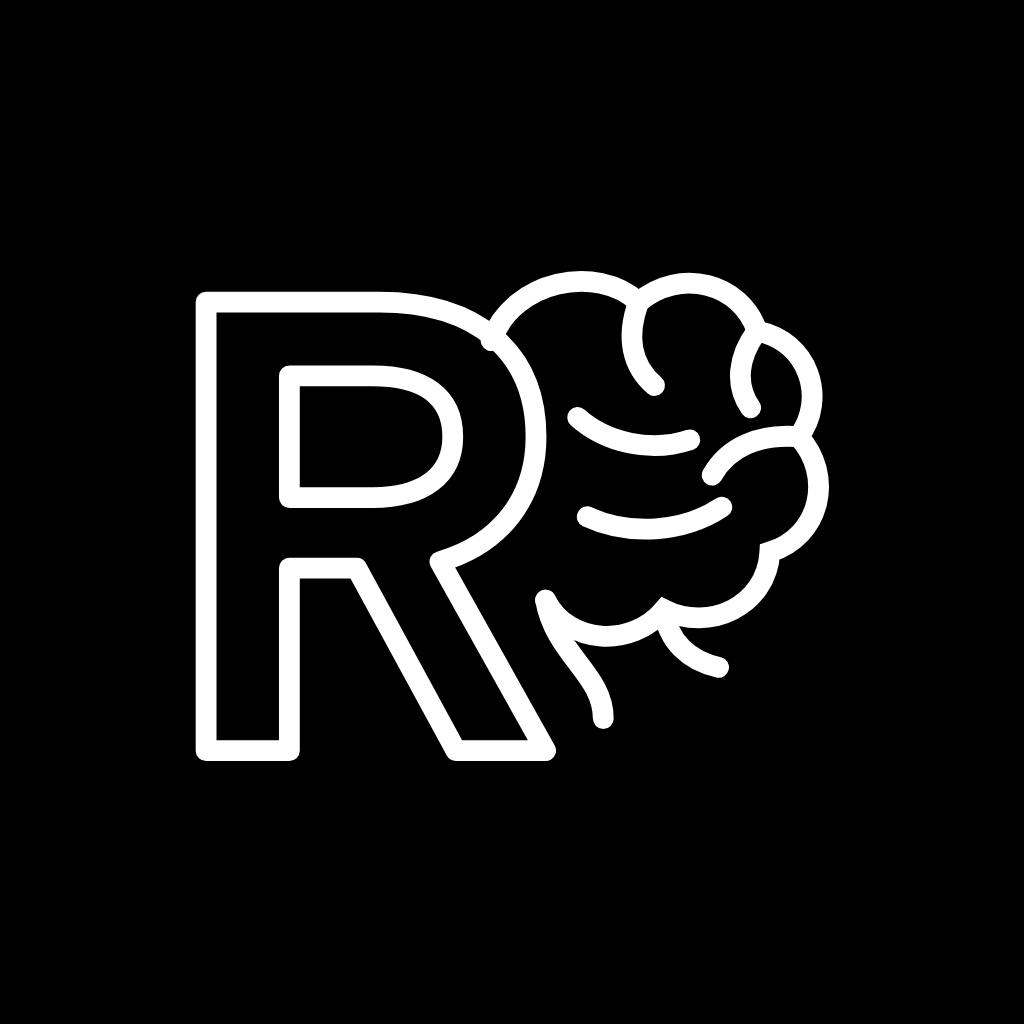
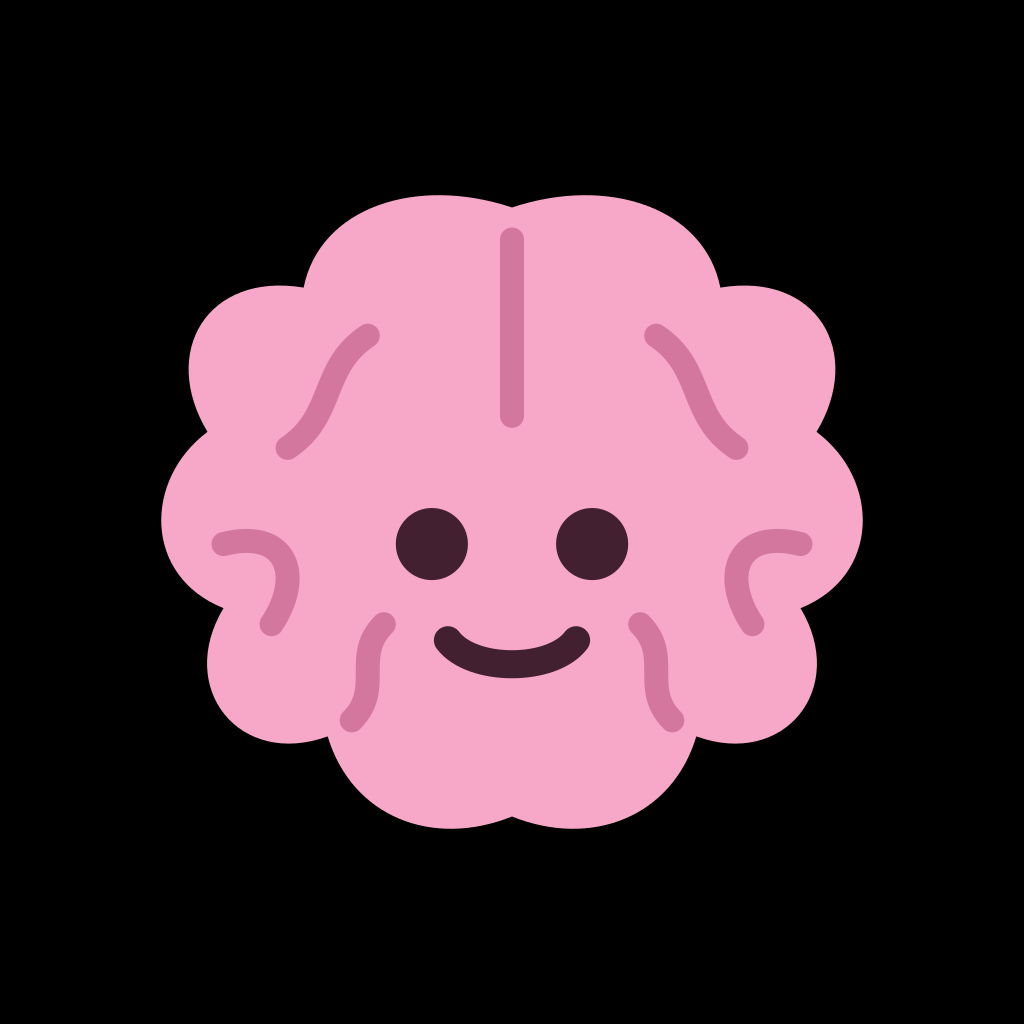
brand: make Rekalla himself the app mark, replacing the R
The old mark was an outlined "R" with an anatomical brain fused to it, in
white on black. Thin outline strokes turn to grey mush at 60pt on a home
screen, and it looked nothing like the app it opened.

He is the one thing carried over from the scan-era work: a pink cartoon
brain, drawn as one half mirrored onto the other, so the two sides cannot
drift apart. Stemless everywhere, so there is only ever one drawing of him.

components/ui/rekalla-avatar.tsx and mobile/components/rekalla-avatar.tsx
hold the geometry, and scripts/make-icons.mjs redraws every icon from those
same paths, so the mark on the home screen is literally the character. The
web header and the three mobile auth screens draw him inline rather than
loading a raster, which also drops three requires of a 1024px PNG rendered
at 84pt.

diff --git a/components/ui/rekalla-avatar.tsx b/components/ui/rekalla-avatar.tsx
@@ -1,0 +1,91 @@
+/**
+ * Rekalla himself: a pink cartoon brain, and the app's mascot. He is also the
+ * mark every icon is drawn from, so the face on the home screen is literally
+ * the same drawing as the one inside the app.
+ *
+ * He is built as one half, drawn twice. Every fold is defined for his left side
+ * only; his right side is that same group under a mirror transform, so the two
+ * halves cannot drift apart. The outline is mirror-exact the same way: each
+ * control point on the right is 100 minus its partner on the left. Edit
+ * LEFT_FOLDS, never a right-hand copy.
+ *
+ * The geometry below is shared three ways: with the React Native version in
+ * mobile/components/rekalla-avatar.tsx, and with scripts/make-icons.mjs, which
+ * redraws every app icon from it. Change his shape here, then run that script
+ * and mirror the edit into the mobile file. Keep all three in step.
+ */
+export const BODY = "#f7a8c8"; // brain pink
+export const FOLD = "#d4779f"; // the sulci, a deeper pink
+export const INK = "#43202f"; // his eyes and his smile
+
+/** Ten lobes, mirrored about x = 50. */
+export const OUTLINE =
+  "M50 10C62 6 74 10 76 20C88 18 94 28 88 38C96 44 96 56 86 60C92 70 84 80 73 76C70 86 60 90 50 86C40 90 30 86 27 76C16 80 8 70 14 60C4 56 4 44 12 38C6 28 12 18 24 20C26 10 38 6 50 10Z";
+
+/** The folds on his left side. His right side is this list, mirrored. */
+export const LEFT_FOLDS = [
+  "M32 26C26 30 28 36 22 40",
+  "M14 52C22 50 24 56 20 62",
+  "M30 74C34 70 30 66 34 62",
+];
+
+/** Reflects the left half onto the right. */
+export const MIRROR = "translate(100, 0) scale(-1, 1)";
+
+export function RekallaAvatar({
+  size = 96,
+  className,
+}: {
+  size?: number;
+  className?: string;
+}) {
+  return (
+    <svg
+      width={size}
+      height={size}
+      viewBox="0 0 100 100"
+      fill="none"
+      role="img"
+      aria-label="Rekalla"
+      className={className}
+    >
+      <path d={OUTLINE} fill={BODY} />
+
+      {/* His left folds, then that same group mirrored onto his right */}
+      <g stroke={FOLD} strokeWidth={3} strokeLinecap="round" fill="none">
+        {LEFT_FOLDS.map((d) => (
+          <path key={d} d={d} />
+        ))}
+      </g>
+      <g
+        stroke={FOLD}
+        strokeWidth={3}
+        strokeLinecap="round"
+        fill="none"
+        transform={MIRROR}
+      >
+        {LEFT_FOLDS.map((d) => (
+          <path key={d} d={d} />
+        ))}
+      </g>
+      {/* The one fold that sits on the centre line, so it is drawn once */}
+      <path
+        d="M50 14V36"
+        stroke={FOLD}
+        strokeWidth={3}
+        strokeLinecap="round"
+        fill="none"
+      />
+
+      <circle cx={40} cy={52} r={4.5} fill={INK} />
+      <circle cx={60} cy={52} r={4.5} fill={INK} />
+      <path
+        d="M42 64C45 68 55 68 58 64"
+        stroke={INK}
+        strokeWidth={3.5}
+        strokeLinecap="round"
+        fill="none"
+      />
+    </svg>
+  );
+}

diff --git a/mobile/components/rekalla-avatar.tsx b/mobile/components/rekalla-avatar.tsx
@@ -1,0 +1,79 @@
+/**
+ * Rekalla himself: a pink cartoon brain, and the app's mascot.
+ *
+ * He is built as one half, drawn twice. Every fold is defined for his left
+ * side only; his right side is that same group under a mirror transform, so
+ * the two halves cannot drift apart. The outline is mirror-exact the same way:
+ * each control point on the right is 100 minus its partner on the left. Edit
+ * LEFT_FOLDS, never a right-hand copy.
+ *
+ * Geometry is shared with the web version in components/ui/rekalla-avatar.tsx
+ * and with scripts/make-icons.mjs, which redraws every app icon from it. Keep
+ * all three in step.
+ */
+import Svg, { Circle, G, Path } from "react-native-svg";
+import { View } from "react-native";
+
+const BODY = "#f7a8c8"; // brain pink
+const FOLD = "#d4779f"; // the sulci, a deeper pink
+const INK = "#43202f"; // his eyes and his smile
+
+/** Ten lobes, mirrored about x = 50. */
+const OUTLINE =
+  "M50 10C62 6 74 10 76 20C88 18 94 28 88 38C96 44 96 56 86 60C92 70 84 80 73 76C70 86 60 90 50 86C40 90 30 86 27 76C16 80 8 70 14 60C4 56 4 44 12 38C6 28 12 18 24 20C26 10 38 6 50 10Z";
+
+/** The folds on his left side. His right side is this list, mirrored. */
+const LEFT_FOLDS = [
+  "M32 26C26 30 28 36 22 40",
+  "M14 52C22 50 24 56 20 62",
+  "M30 74C34 70 30 66 34 62",
+];
+
+/** Reflects the left half onto the right. */
+const MIRROR = "translate(100, 0) scale(-1, 1)";
+
+export function RekallaAvatar({ size = 96 }: { size?: number }) {
+  return (
+    <View accessibilityRole="image" accessibilityLabel="Rekalla">
+      <Svg width={size} height={size} viewBox="0 0 100 100" fill="none">
+        <Path d={OUTLINE} fill={BODY} />
+
+        {/* His left folds, then that same group mirrored onto his right */}
+        <G stroke={FOLD} strokeWidth={3} strokeLinecap="round" fill="none">
+          {LEFT_FOLDS.map((d) => (
+            <Path key={d} d={d} />
+          ))}
+        </G>
+        <G
+          stroke={FOLD}
+          strokeWidth={3}
+          strokeLinecap="round"
+          fill="none"
+          transform={MIRROR}
+        >
+          {LEFT_FOLDS.map((d) => (
+            <Path key={d} d={d} />
+          ))}
+        </G>
+        {/* The one fold that sits on the centre line, so it is drawn once */}
+        <Path
+          d="M50 14V36"
+          stroke={FOLD}
+          strokeWidth={3}
+          strokeLinecap="round"
+          fill="none"
+        />
+
+        <Circle cx={40} cy={52} r={4.5} fill={INK} />
+        <Circle cx={60} cy={52} r={4.5} fill={INK} />
+        <Path
+          d="M42 64C45 68 55 68 58 64"
+          stroke={INK}
+          strokeWidth={3.5}
+          strokeLinecap="round"
+          fill="none"
+        />
+      </Svg>
+    </View>
+  );
+}

diff --git a/mobile/app/(auth)/sign-up.tsx b/mobile/app/(auth)/sign-up.tsx
@@ -1,5 +1,5 @@
 import { useState } from "react";
-import { Image, Pressable, StyleSheet, Text, View } from "react-native";
+import { Pressable, StyleSheet, Text, View } from "react-native";
 import { Link, router } from "expo-router";
 import { Ionicons } from "@expo/vector-icons";
 import { supabase } from "../../lib/supabase";
@@ -7,6 +7,7 @@ import { useT } from "../../lib/i18n";
 import { colors, font, radius, spacing } from "../../lib/theme";
 import { isInternalAuthError } from "../../lib/utils";
 import { Screen, Card, Button, Field, Title, Subtitle } from "../../components/ui";
+import { RekallaAvatar } from "../../components/rekalla-avatar";
 import type { AccountType } from "../../lib/types";
 
 const OPTIONS: {
@@ -120,11 +121,7 @@ export default function SignUp() {
   return (
     <Screen>
       <View style={styles.logoWrap}>
-        <Image
-          source={require("../../assets/icon.png")}
-          style={styles.logo}
-          accessibilityLabel="Rekalla"
-        />
+        <RekallaAvatar size={84} />
         <Text style={styles.wordmark}>{t("auth.wordmark")}</Text>
       </View>
 
@@ -240,7 +237,6 @@ export default function SignUp() {
 
 const styles = StyleSheet.create({
   logoWrap: { alignItems: "center", gap: spacing(3), marginVertical: spacing(4) },
-  logo: { width: 84, height: 84, borderRadius: 20 },
   wordmark: { color: colors.label, fontSize: font.x2, fontWeight: "700" },
   error: { color: colors.red, fontSize: font.base, fontWeight: "600" },
   legend: { color: colors.label2, fontSize: font.base, fontWeight: "600" },

diff --git a/mobile/app/(auth)/verify.tsx b/mobile/app/(auth)/verify.tsx
@@ -1,11 +1,12 @@
 import { useEffect, useRef, useState } from "react";
-import { Image, Pressable, StyleSheet, Text, View } from "react-native";
+import { Pressable, StyleSheet, Text, View } from "react-native";
 import { router, useLocalSearchParams } from "expo-router";
 import { supabase } from "../../lib/supabase";
 import { useT } from "../../lib/i18n";
 import { colors, font, spacing } from "../../lib/theme";
 import { isInternalAuthError } from "../../lib/utils";
 import { Screen, Card, Button, Field, Title, Subtitle } from "../../components/ui";
+import { RekallaAvatar } from "../../components/rekalla-avatar";
 import type { AccountType } from "../../lib/types";
 
 const RESEND_COOLDOWN = 60;
@@ -134,11 +135,7 @@ export default function Verify() {
   return (
     <Screen>
       <View style={styles.logoWrap}>
-        <Image
-          source={require("../../assets/icon.png")}
-          style={styles.logo}
-          accessibilityLabel="Rekalla"
-        />
+        <RekallaAvatar size={84} />
         <Text style={styles.wordmark}>{t("auth.wordmark")}</Text>
       </View>
 
@@ -194,7 +191,6 @@ export default function Verify() {
 
 const styles = StyleSheet.create({
   logoWrap: { alignItems: "center", gap: spacing(3), marginVertical: spacing(4) },
-  logo: { width: 84, height: 84, borderRadius: 20 },
   wordmark: { color: colors.label, fontSize: font.x2, fontWeight: "700" },
   error: { color: colors.red, fontSize: font.base, fontWeight: "600" },
   notice: { color: colors.green, fontSize: font.base, fontWeight: "600" },

diff --git a/mobile/app/(auth)/sign-in.tsx b/mobile/app/(auth)/sign-in.tsx
@@ -1,11 +1,12 @@
 import { useState } from "react";
-import { Image, Pressable, StyleSheet, Text, View } from "react-native";
+import { Pressable, StyleSheet, Text, View } from "react-native";
 import { Link, router } from "expo-router";
 import { supabase } from "../../lib/supabase";
 import { useT } from "../../lib/i18n";
 import { colors, font, spacing } from "../../lib/theme";
 import { isInternalAuthError } from "../../lib/utils";
 import { Screen, Card, Button, Field, Title, Subtitle } from "../../components/ui";
+import { RekallaAvatar } from "../../components/rekalla-avatar";
 
 export default function SignIn() {
   const t = useT();
@@ -63,11 +64,7 @@ export default function SignIn() {
   return (
     <Screen>
       <View style={styles.logoWrap}>
-        <Image
-          source={require("../../assets/icon.png")}
-          style={styles.logo}
-          accessibilityLabel="Rekalla"
-        />
+        <RekallaAvatar size={84} />
         <Text style={styles.wordmark}>{t("auth.wordmark")}</Text>
       </View>
 
@@ -118,7 +115,6 @@ export default function SignIn() {
 
 const styles = StyleSheet.create({
   logoWrap: { alignItems: "center", gap: spacing(3), marginVertical: spacing(4) },
-  logo: { width: 84, height: 84, borderRadius: 20 },
   wordmark: { color: colors.label, fontSize: font.x2, fontWeight: "700" },
   error: { color: colors.red, fontSize: font.base, fontWeight: "600" },
   switchLink: { minHeight: 44, alignItems: "center", justifyContent: "center" },

diff --git a/components/ui/logo.tsx b/components/ui/logo.tsx
@@ -1,9 +1,10 @@
 import Link from "next/link";
-import Image from "next/image";
 import { cn } from "@/lib/utils";
+import { RekallaAvatar } from "@/components/ui/rekalla-avatar";
 
-// The mark lives at public/logo.svg — replace that file with your own
-// export (same name) to swap the logo everywhere at once.
+// The mark is Rekalla himself, drawn inline from the shared geometry rather
+// than loaded as a file, so the header and the app icons cannot drift apart.
+// public/logo.svg is the same drawing, for the places that need a URL.
 const sizes = {
   sm: { box: 32, text: "text-lg" },
   md: { box: 44, text: "text-xl" },
@@ -28,14 +29,7 @@ export function Logo({
       className={cn("flex items-center gap-3", className)}
       aria-label="Rekalla home"
     >
-      <Image
-        src="/logo.svg"
-        alt=""
-        width={s.box}
-        height={s.box}
-        priority
-        className="rounded-[24%] bg-base"
-      />
+      <RekallaAvatar size={s.box} className="rounded-[24%] bg-base" />
       {wordmark && (
         <span className={cn("font-semibold tracking-tight text-label", s.text)}>
           Rekalla
